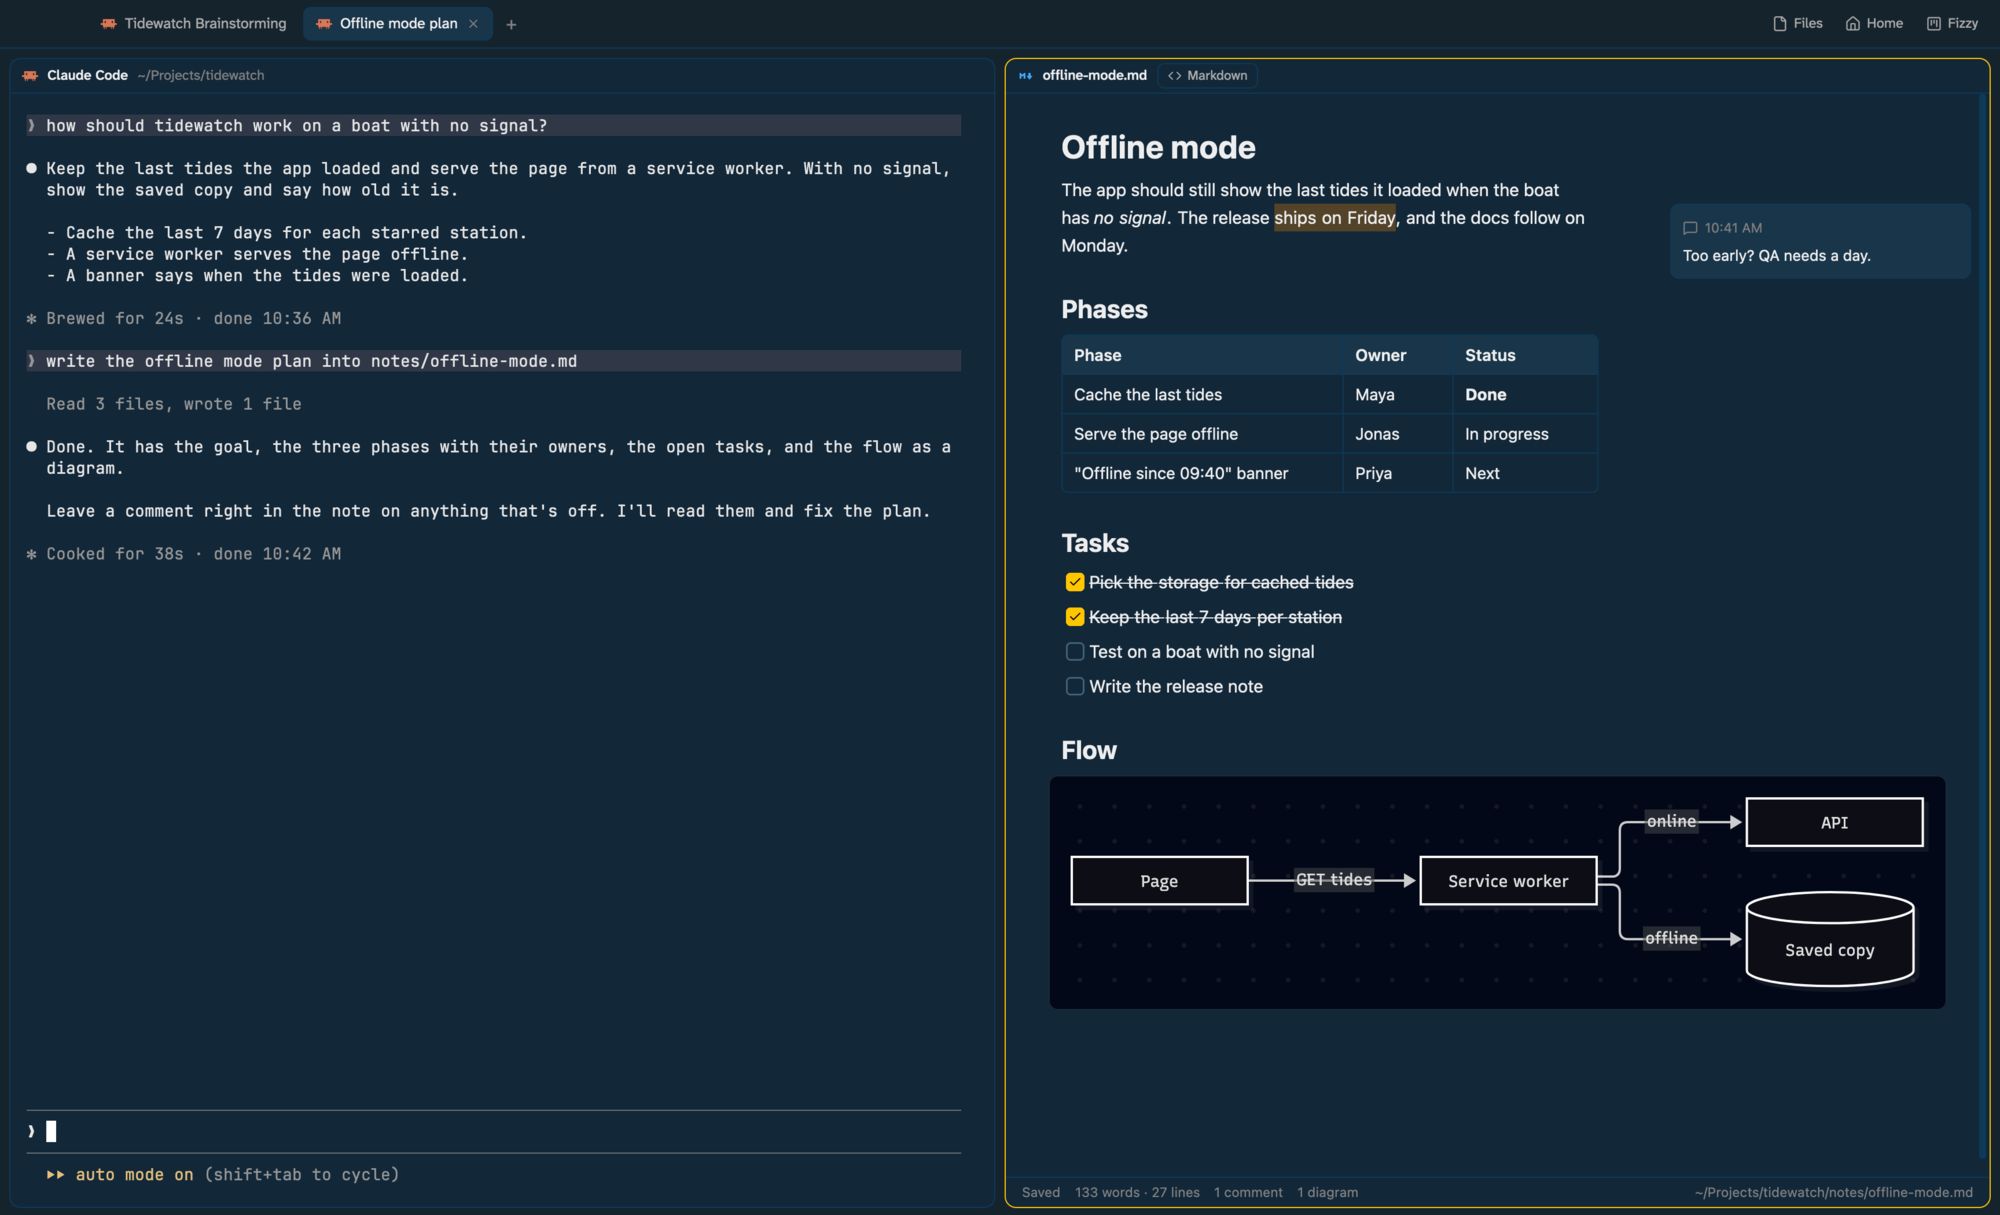
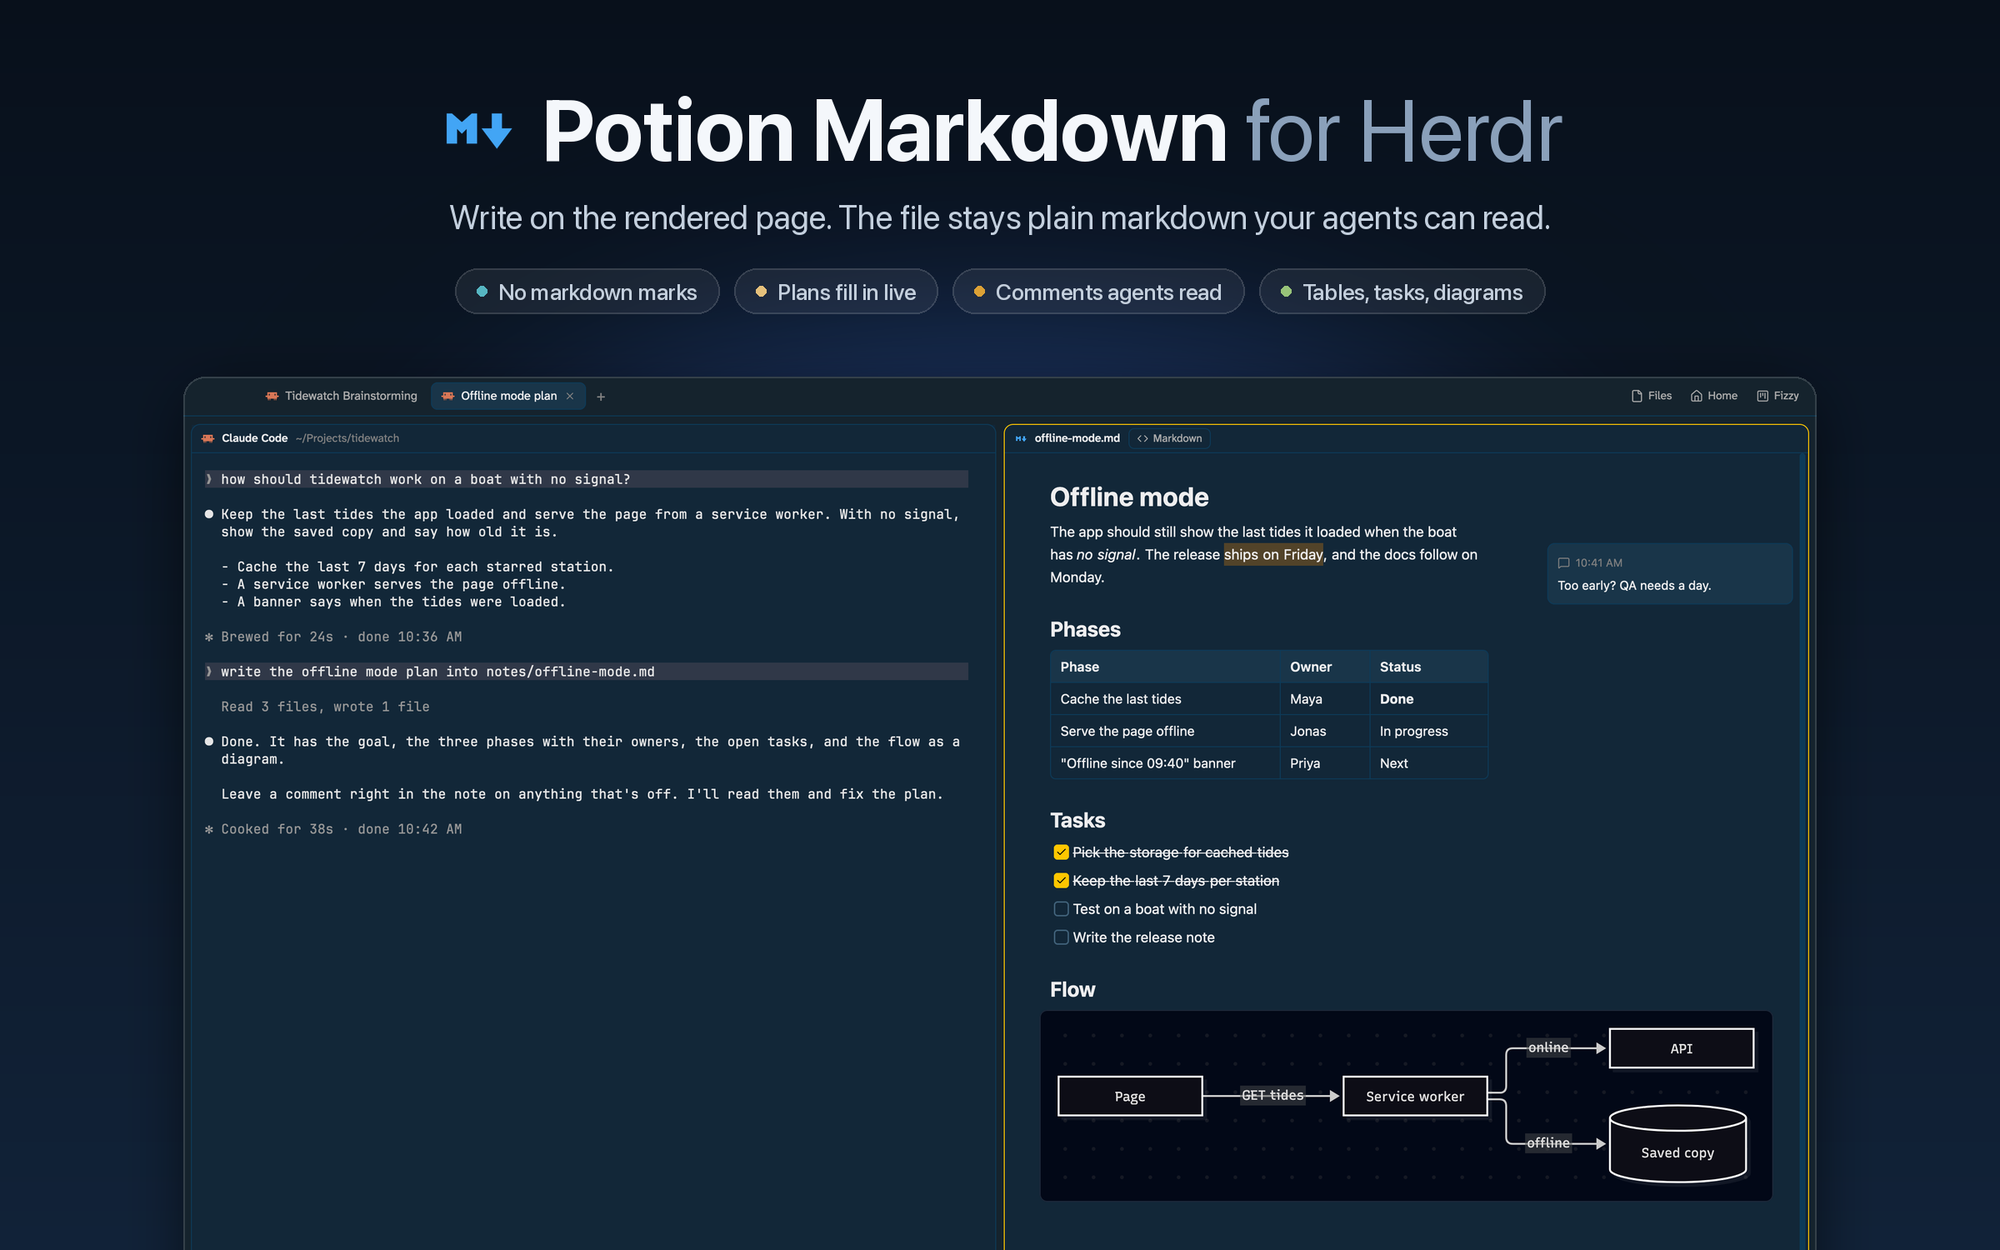
Gallery hero with the title; the open-sourcing notes leave the repo
preview.png is now a designed hero: the Markdown icon and "Potion Markdown for
Herdr", one line on what it does, four feature chips, and the screenshot of an
agent's chat beside the plan it wrote, open in Potion. The internal
before-open-sourcing notes move out of the repo; the reference no longer
links them.

diff --git a/README.md b/README.md
@@ -3,7 +3,7 @@
 A Markdown editor in a Herdr pane, next to your terminals and agents. You write on the rendered page, and the file
 stays plain markdown that you, your agents and any other tool can read.
 
-![Herdr with an agent chat on the left that has just written a plan, and the plan open in Potion on the right: a heading, formatted text with a comment card in the margin, a table, ticked tasks and a drawn diagram](preview.png)
+![Potion Markdown for Herdr: write on the rendered page, and the file stays plain markdown your agents can read. Below it, Herdr with an agent's chat beside the plan it wrote, open in Potion with a comment card in the margin, a table, ticked tasks and a drawn diagram](preview.png)
 
 _The notes and chats in these pictures are made up. [docs/REFERENCE.md](docs/REFERENCE.md) has every detail._
 

diff --git a/docs/REFERENCE.md b/docs/REFERENCE.md
@@ -7,8 +7,7 @@ you type. It opens beside your terminals in the current tab, or in a tab of its 
 plans an agent writes into a file as they appear, and for writing notes next to your terminals.
 
 This is the long version of the [README](../README.md), which has the short one: what Potion is, what it can do, how to
-install it and which keys it binds. The notes for publishing the repo are in
-[before-open-sourcing.md](before-open-sourcing.md).
+install it and which keys it binds.
 
 ## Contents
 
